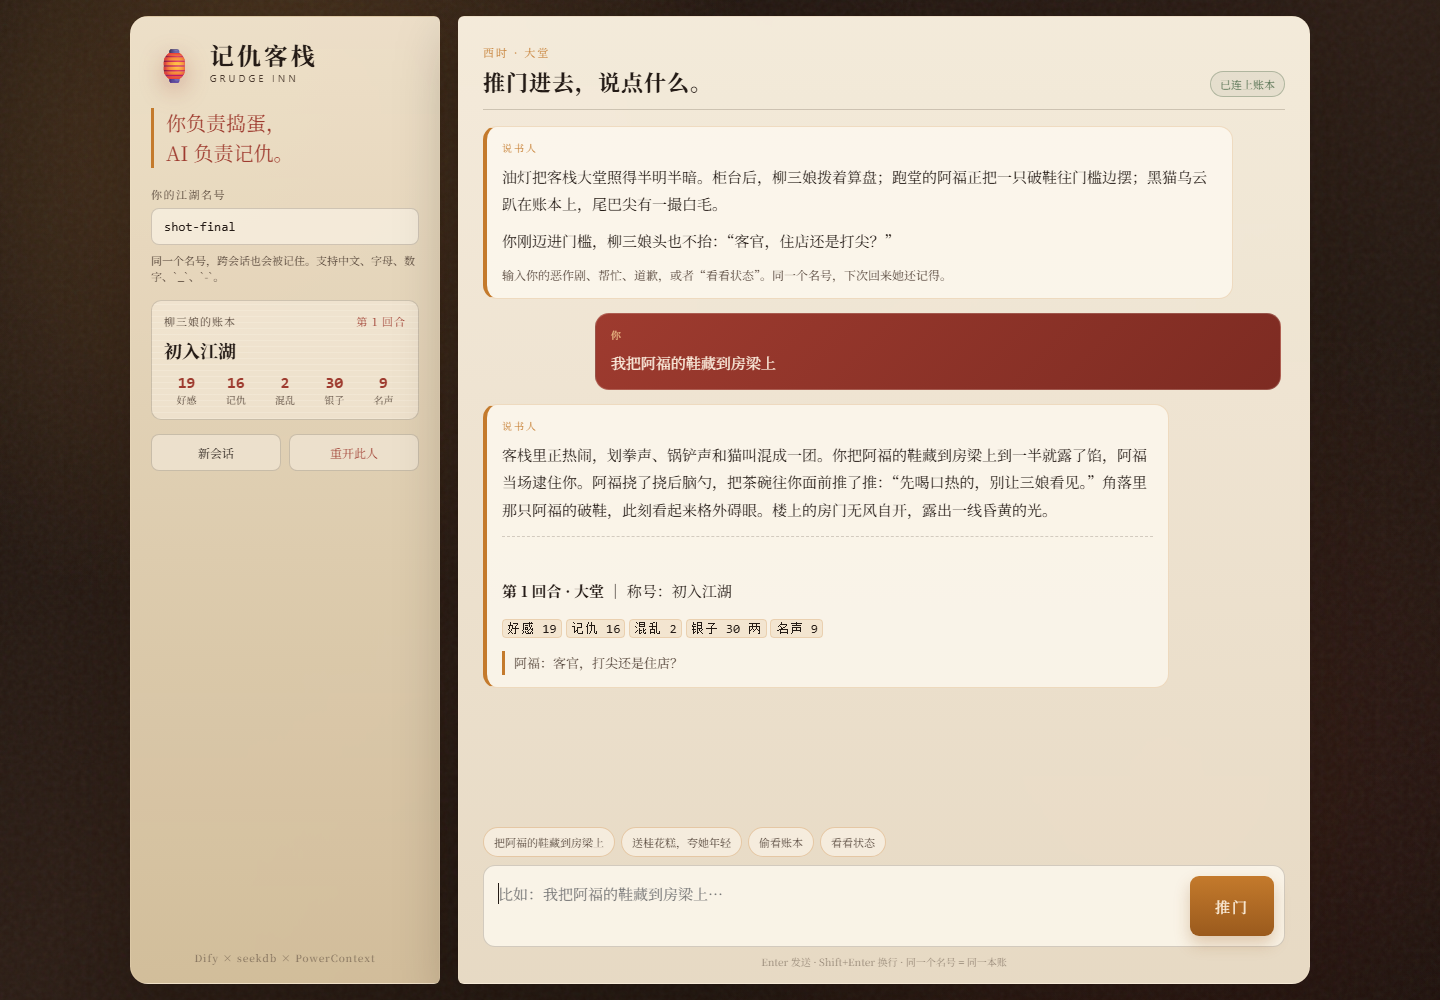
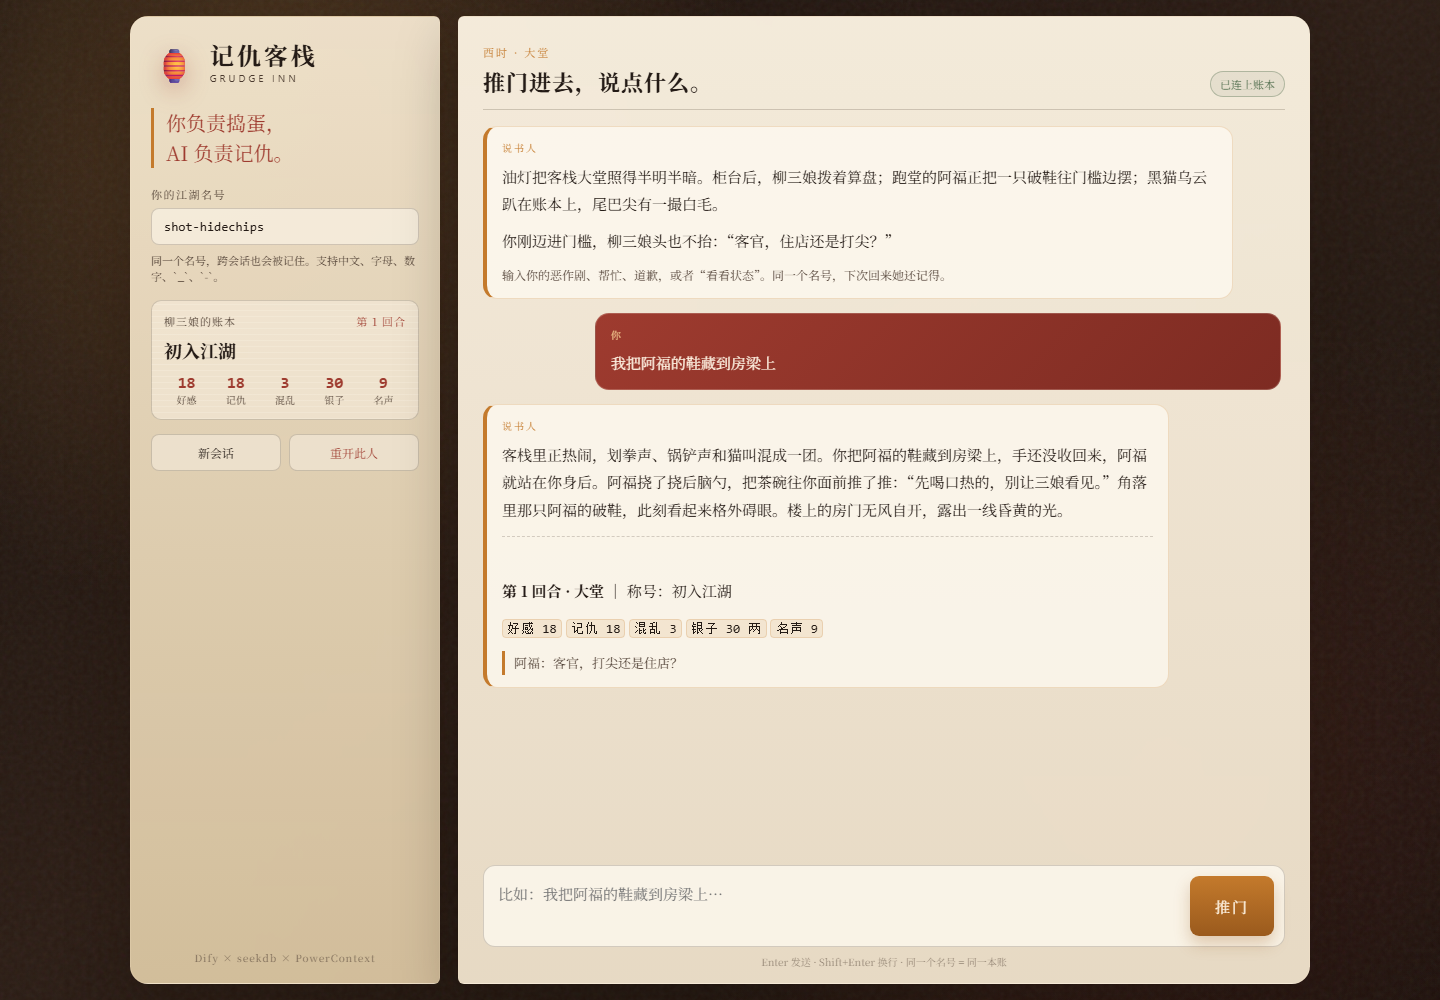
fix(dify): hide quick suggestions after first action

diff --git a/dify/web/app.js b/dify/web/app.js
@@ -114,6 +114,8 @@
     const text = String(query || "").trim();
     if (!text || busy) return;
     setBusy(true);
+    // 第一次行动后收起快捷选项，避免旧建议一直占着地方
+    chips.hidden = true;
     bubble("player", `<p>${escapeHTML(text)}</p>`);
     const loading = bubble("narrator", `<p class="loading">柳三娘翻着账本，阿福伸长了脖子……</p>`);
     try {
@@ -140,6 +142,7 @@
   function newSession() {
     conversationId = "";
     log.innerHTML = openingHTML;
+    chips.hidden = false;
     refreshState();
     input.focus();
   }

diff --git a/dify/web/style.css b/dify/web/style.css
@@ -248,6 +248,7 @@ button:active { transform: translateY(1px); }
 }
 
 .chips { display: flex; flex-wrap: wrap; gap: 6px; padding: 10px 0 8px; }
+.chips[hidden] { display: none; }
 .chips button {
   font-size: 11px;
   padding: 6px 10px;

diff --git a/dify/tests/test_game.py b/dify/tests/test_game.py
@@ -78,9 +78,10 @@ def test_status_does_not_advance_state(engine: GameEngine) -> None:
     engine.commit("tester", "阿福光着一只脚站在梯子下。")
     before = engine.memory.load("tester")["state"]["turn"]
     engine.prepare("tester", "看看状态")
-    engine.commit("tester", "你摊开账本，墨迹还没干。")
+    reply = engine.commit("tester", "你摊开账本，墨迹还没干。")
     after = engine.memory.load("tester")["state"]["turn"]
     assert before == after == 1
+    assert "PowerContext" not in reply and "新记忆" not in reply
 
 
 def test_reset_creates_new_generation(engine: GameEngine) -> None:

diff --git a/dify/app/game.py b/dify/app/game.py
@@ -381,7 +381,7 @@ class GameEngine:
 
             if plan["intent"] == "status":
                 state = self.memory.load(player_id)["state"]
-                reply = f"{story}\n\n---\n{self._status_panel(state, plan)}\n\n> 🧠 状态读取自 PowerContext；本回合不写入新记忆。"
+                reply = f"{story}\n\n---\n{self._status_panel(state, plan)}"
                 self.store.mark_plan_committed(plan["plan_id"], reply)
                 return reply
 
